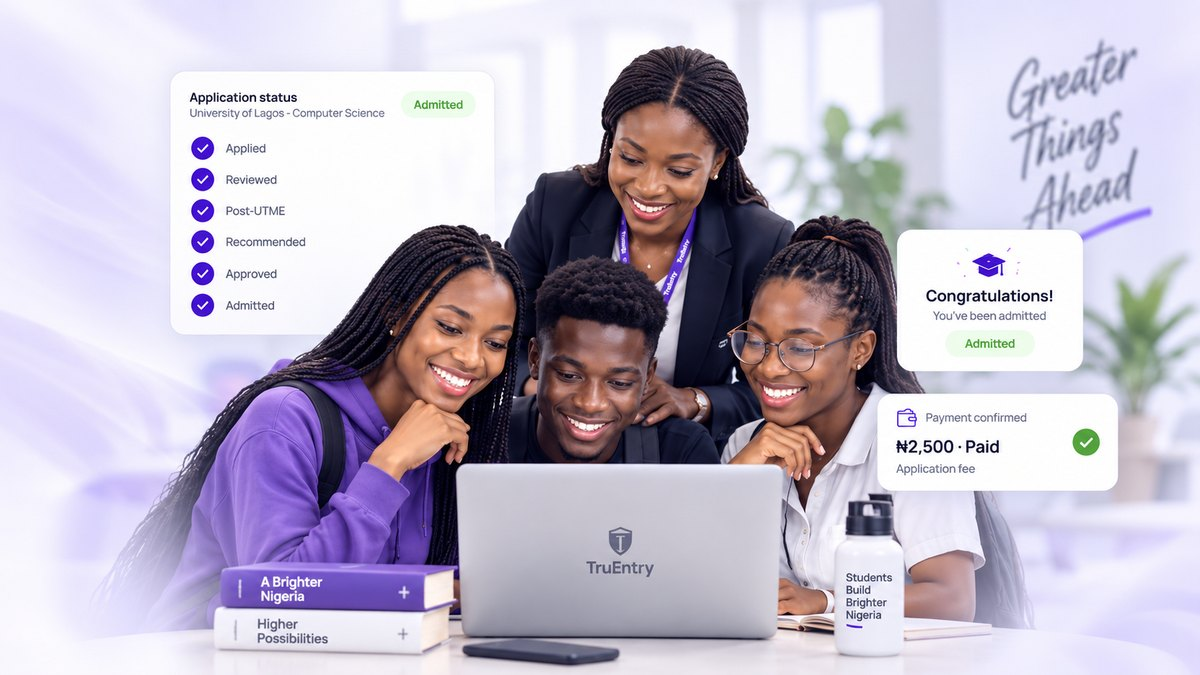
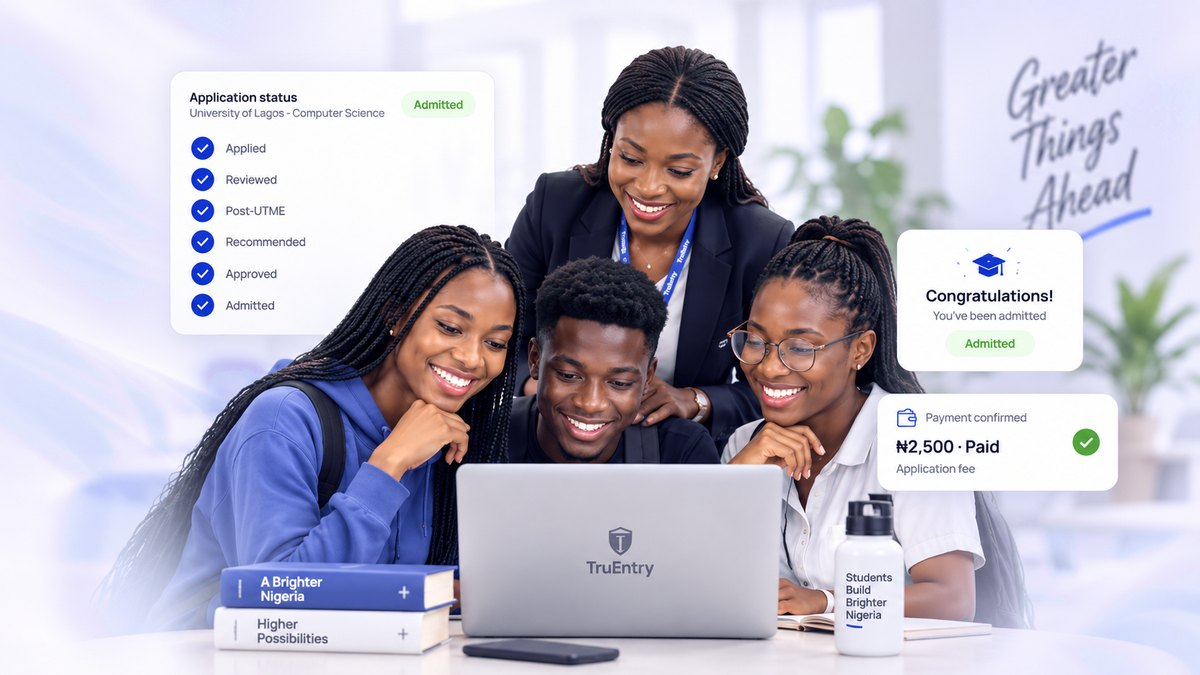
system color

diff --git a/Frontend/tailwind.config.js b/Frontend/tailwind.config.js
@@ -6,24 +6,25 @@ export default {
       spacing: { '4.5': '1.125rem', '18': '4.5rem' },
       colors: {
         // Royal indigo-blue system — mature, institutional, matches the design.
-        // Brand violet, sampled from the hero artwork.
+        // Brand blue, sampled from the logo (#002A84 navy / #0042C0 blue).
+        // Deliberately deep rather than bright — institutional, not neon.
         primary: {
-          DEFAULT: '#5121E0',
-          50: '#F3F0FF',
-          100: '#E9E3FF',
-          200: '#D5C9FF',
-          300: '#B69FFC',
-          400: '#9470F7',
-          500: '#7644F0',
-          600: '#5F2BE8',
-          700: '#5121E0',
-          800: '#3F17B4',
-          900: '#2E1088',
-          950: '#1D0A5A',
-          dark: '#2E1088',
-          hover: '#4519C4',
-          light: '#F3F0FF',
-          surface: '#F8F7FD',
+          DEFAULT: '#0F47CC',
+          50: '#EFF4FF',
+          100: '#DBE6FF',
+          200: '#BACFFF',
+          300: '#8CAEFF',
+          400: '#5585FA',
+          500: '#2C61EE',
+          600: '#1550DA',
+          700: '#0F47CC',
+          800: '#0B3BA8',
+          900: '#08307F',
+          950: '#002A7E',
+          dark: '#002A7E',
+          hover: '#0B3BA8',
+          light: '#EFF4FF',
+          surface: '#F6F8FD',
         },
         border: '#E6E8F0',
         ink: '#0E1330',
@@ -49,7 +50,7 @@ export default {
         pop: '0 16px 40px -20px rgba(53,56,205,0.35)',
       },
       backgroundImage: {
-        'brand-gradient': 'linear-gradient(150deg, #6F3BF2 0%, #5121E0 52%, #2E1088 100%)',
+        'brand-gradient': 'linear-gradient(150deg, #2C61EE 0%, #0F47CC 52%, #002A7E 100%)',
       },
       keyframes: {
         'fade-up': { '0%': { opacity: 0, transform: 'translateY(8px)' }, '100%': { opacity: 1, transform: 'translateY(0)' } },

diff --git a/Frontend/src/pages/public/Landing.jsx b/Frontend/src/pages/public/Landing.jsx
@@ -36,7 +36,7 @@ export default function Landing() {
   return (
     <div>
       {/* ============ HERO ============ */}
-      <section className="relative overflow-hidden bg-[#F5F3FE]">
+      <section className="relative overflow-hidden bg-[#F4F7FF]">
         <BrandBackdrop tone="light" />
 
         <div className="relative mx-auto grid w-full max-w-[1500px] items-center gap-10 px-4 pt-12 sm:px-6 lg:grid-cols-[minmax(0,44%)_minmax(0,56%)] lg:gap-6 lg:px-0 lg:pl-10 lg:pt-4 xl:pl-16">
@@ -92,9 +92,9 @@ export default function Landing() {
             />
             {/* Feather every inner edge into the section colour so the artwork
                 dissolves into the page instead of ending on a seam. */}
-            <div className="pointer-events-none absolute inset-y-0 left-0 w-20 bg-gradient-to-r from-[#F5F3FE] to-transparent sm:w-28" />
-            <div className="pointer-events-none absolute inset-x-0 top-0 h-24 bg-gradient-to-b from-[#F5F3FE] to-transparent" />
-            <div className="pointer-events-none absolute inset-x-0 bottom-0 h-32 bg-gradient-to-t from-[#F5F3FE] via-[#F5F3FE]/60 to-transparent" />
+            <div className="pointer-events-none absolute inset-y-0 left-0 w-20 bg-gradient-to-r from-[#F4F7FF] to-transparent sm:w-28" />
+            <div className="pointer-events-none absolute inset-x-0 top-0 h-24 bg-gradient-to-b from-[#F4F7FF] to-transparent" />
+            <div className="pointer-events-none absolute inset-x-0 bottom-0 h-32 bg-gradient-to-t from-[#F4F7FF] via-[#F4F7FF]/60 to-transparent" />
           </div>
         </div>
       </section>

diff --git a/Frontend/src/components/ui/BrandBackdrop.jsx b/Frontend/src/components/ui/BrandBackdrop.jsx
@@ -16,8 +16,8 @@ export default function BrandBackdrop({ tone = 'deep', className = '' }) {
   const id = deep ? 'd' : 'l';
 
   // Filament colours: a cool white core over a blue halo on dark panels.
-  const core = deep ? '#F2ECFF' : '#5121E0';
-  const halo = deep ? '#A98BFF' : '#7644F0';
+  const core = deep ? '#EAF2FF' : '#0F47CC';
+  const halo = deep ? '#82A9FF' : '#2C61EE';
 
   const coreOpacity = deep ? 1 : 0.16;
   const haloOpacity = deep ? 0.8 : 0.11;

diff --git a/Frontend/src/lib/api.js b/Frontend/src/lib/api.js
@@ -1,6 +1,6 @@
 import axios from 'axios';
 
-const BASE_URL = import.meta.env.VITE_API_URL || 'https://tru-entry.vercel.app/api/v1' ||'https://api.truentry.org/api/v1' ;
+const BASE_URL = import.meta.env.VITE_API_URL || 'https://tru-entry.vercel.app/api/v1' || 'https://api.truentry.org/api/v1';
 
 const api = axios.create({
   baseURL: BASE_URL,

diff --git a/Backend/src/config/index.js b/Backend/src/config/index.js
@@ -45,7 +45,7 @@ const config = {
     'https://www.truentry.org',
     'http://localhost:3000',
     'http://localhost:5173',
-    'https://api.truentry.org',
+    'https://truentry.org/api/v1',
   ]),
 
   db: {
